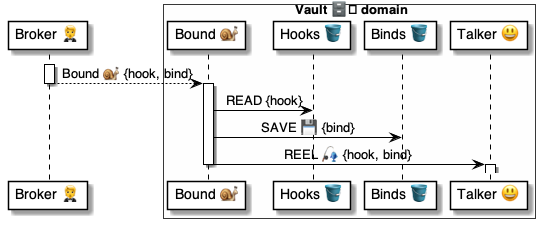
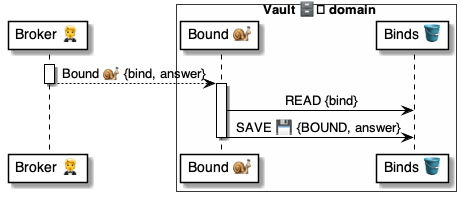
.

diff --git a/4 ⚙ Solution/41 🎭 Domain Roles/Issuers 🎴/🎴🪣 Issuer tables/Tokens 🎫 table/🪣🔔 2 Offered/🎴 OnTokenOffered 📃 handler.md b/4 ⚙ Solution/41 🎭 Domain Roles/Issuers 🎴/🎴🪣 Issuer tables/Tokens 🎫 table/🪣🔔 2 Offered/🎴 OnTokenOffered 📃 handler.md
@@ -1,5 +1,8 @@
 # 🎴 OnTokenOffered 📃 handler
 
+> Part of the [`Issuer.Tokens` 🪣 table](<../🪣 Tokens/🎴 Issuer.Tokens 🪣 table.md>)
+
+<br/>
 
 ## Diagram
 
@@ -20,12 +23,12 @@
 
 # Continue the Talker
 - REEL|$Token.Token:
-    $Token.Answer
+    $Token.Answer.Is(ACCEPTED)
 ```
 
 Uses||
 |-|-
 | [Commands ⌘](<../../../../../35 💬 Chats/Scripts 📃/Command ⌘.md>) | [`ASSERT`](<../../../../../37 Scripts 📃/📃 Commands ⌘/⌘ for holders 🧠/ASSERT 🚦/🚦 ASSERT ⌘ cmd.md>) [`REEL`](<../../../../../37 Scripts 📃/📃 Commands ⌘/⌘ for async/REEL 🎣/🎣 REEL ⌘ cmd.md>) 
 | [Datasets 🪣](<../../../../../30 🧩 Data/Datasets 🪣/🪣 Dataset.md>) | [`Issuer.Tokens`](<../🪣 Tokens/🎴 Issuer.Tokens 🪣 table.md>)
-| [{Functions} 🐍](<../../../../../35 💬 Chats/Scripts 📃/Function 🐍.md>) | [`.IsIn`](<../../../../../37 Scripts 📃/📃 Functions 🐍/🐍 System 🔩 functions/IsIn ⓕ.md>)
+| [{Functions} 🐍](<../../../../../35 💬 Chats/Scripts 📃/Function 🐍.md>) | [`.Is`](<../../../../../37 Scripts 📃/📃 Functions 🐍/🐍 System 🔩 functions/Is ⓕ.md>) [`.IsIn`](<../../../../../37 Scripts 📃/📃 Functions 🐍/🐍 System 🔩 functions/IsIn ⓕ.md>)
 |

diff --git a/4 ⚙ Solution/41 🎭 Domain Roles/Vaults 🗄/🗄🅰 Vault methods/Bound 🤵🐌🗄/🗄 Bound 🐌 msg.md b/4 ⚙ Solution/41 🎭 Domain Roles/Vaults 🗄/🗄🅰 Vault methods/Bound 🤵🐌🗄/🗄 Bound 🐌 msg.md
@@ -24,7 +24,8 @@ Header:
     Subject: Bound@Vault
 
 Body:
-    Offer: <bind-uuid>
+    Bind: <bind-uuid>
+    Answer: ACCEPTED|DECLINED
 ```
 
 |Object|Property|Type|Description|Origin|Purpose
@@ -32,5 +33,6 @@ Body:
 |Header|`From`|text| [Broker 🤵](<../../../../20 🧑🦰 UI/Brokers 🤵/🤵 Broker helper/🤵 Broker 🤲 helper.md>) | [`Bind@`](<../../../../20 🧑🦰 UI/Brokers 🤵/🤵🅰 Broker methods/Binds 🔗 Bind 🗄🐌🤵/🤵 Bind 🐌 msg.md>)
 ||`To`|text| [Vault 🗄](<../../🗄🎭 Vault role.md>)  | [`Bind@`](<../../../../20 🧑🦰 UI/Brokers 🤵/🤵🅰 Broker methods/Binds 🔗 Bind 🗄🐌🤵/🤵 Bind 🐌 msg.md>)
 || `Subject` |text| `Bound@Vault`
-|Body|  `Offer` | uuid |  [Vault 🗄](<../../🗄🎭 Vault role.md>)  hook| [`Bind@`](<../../../../20 🧑🦰 UI/Brokers 🤵/🤵🅰 Broker methods/Binds 🔗 Bind 🗄🐌🤵/🤵 Bind 🐌 msg.md>)
+|Body|  `Bind` | uuid | [Bind 🔗](<../../../../30 🧩 Data/Binds 🔗/🔗 Bind.md>) ID | [`Bind@`](<../../../../20 🧑🦰 UI/Brokers 🤵/🤵🅰 Broker methods/Binds 🔗 Bind 🗄🐌🤵/🤵 Bind 🐌 msg.md>)
+|       | `Answer` | enum | `ACCEPTED` `DECLINED` |
 |

diff --git a/4 ⚙ Solution/41 🎭 Domain Roles/Vaults 🗄/🗄🅰 Vault methods/Bound 🤵🐌🗄/🗄 Bound 📃 handler.md b/4 ⚙ Solution/41 🎭 Domain Roles/Vaults 🗄/🗄🅰 Vault methods/Bound 🤵🐌🗄/🗄 Bound 📃 handler.md
@@ -1,12 +1,11 @@
 # 🗄📃 Bound script
 
-> Flow
-* Part of the [Vault 🗄 domain](<../../🗄🎭 Vault role.md>)
+> Part of the [Vault 🗄 domain](<../../🗄🎭 Vault role.md>)
 
 > Purpose
 
 * [Script 📃](<../../../../35 💬 Chats/Scripts 📃/Script 📃.md>) that implements the [`Bound@Vault` 🅰 method](<🗄 Bound 🐌 msg.md>).
-* Returns a [Schema Code 🧩](<../../../../30 🧩 Data/Codes 🧩/🧩 Schema Code.md>) to the [`BIND` 📃 script](<../../../../37 Scripts 📃/📃 Commands ⌘/⌘ for methods 🤵/BIND 🔗/🔗 BIND 📃 script.md>).
+* Returns a confirmation to the [`BIND` 📃 script](<../../../../37 Scripts 📃/📃 Commands ⌘/⌘ for methods 🤵/BIND 🔗/🔗 BIND 📃 script.md>).
 
 
 

diff --git a/4 ⚙ Solution/41 🎭 Domain Roles/Vaults 🗄/🗄🪣 Vault tables/Binds 🔗 table/🪣🔔 3 Bound/🗄 OnBindBound 📃 handler.md b/4 ⚙ Solution/41 🎭 Domain Roles/Vaults 🗄/🗄🪣 Vault tables/Binds 🔗 table/🪣🔔 3 Bound/🗄 OnBindBound 📃 handler.md
@@ -16,9 +16,14 @@
 ```yaml
 📃 OnBindBound:
 
+# Assert the inputs
+- ASSERT|$Bind:
+    - AllOf: Answer
+    - Answer.IsIn(ACCEPTED, DECLINED)
+
 # Return the call
 - REEL|$Bind.ID:
-    Bound: $Bind.Bound
+    $Bind.Answer.Is(ACCEPTED)
 ```
 
 Uses||

diff --git a/4 ⚙ Solution/41 🎭 Domain Roles/Issuers 🎴/🎴🪣 Issuer tables/Tokens 🎫 table/🪣🔔 1 Issued/🎴 OnTokenIssued 📃 handler.md b/4 ⚙ Solution/41 🎭 Domain Roles/Issuers 🎴/🎴🪣 Issuer tables/Tokens 🎫 table/🪣🔔 1 Issued/🎴 OnTokenIssued 📃 handler.md
@@ -1,5 +1,8 @@
 # 🎴 OnTokenIssued 📃 handler
 
+> Part of the [`Issuer.Tokens` 🪣 table](<../🪣 Tokens/🎴 Issuer.Tokens 🪣 table.md>)
+
+<br/>
 
 ## Diagram
 
